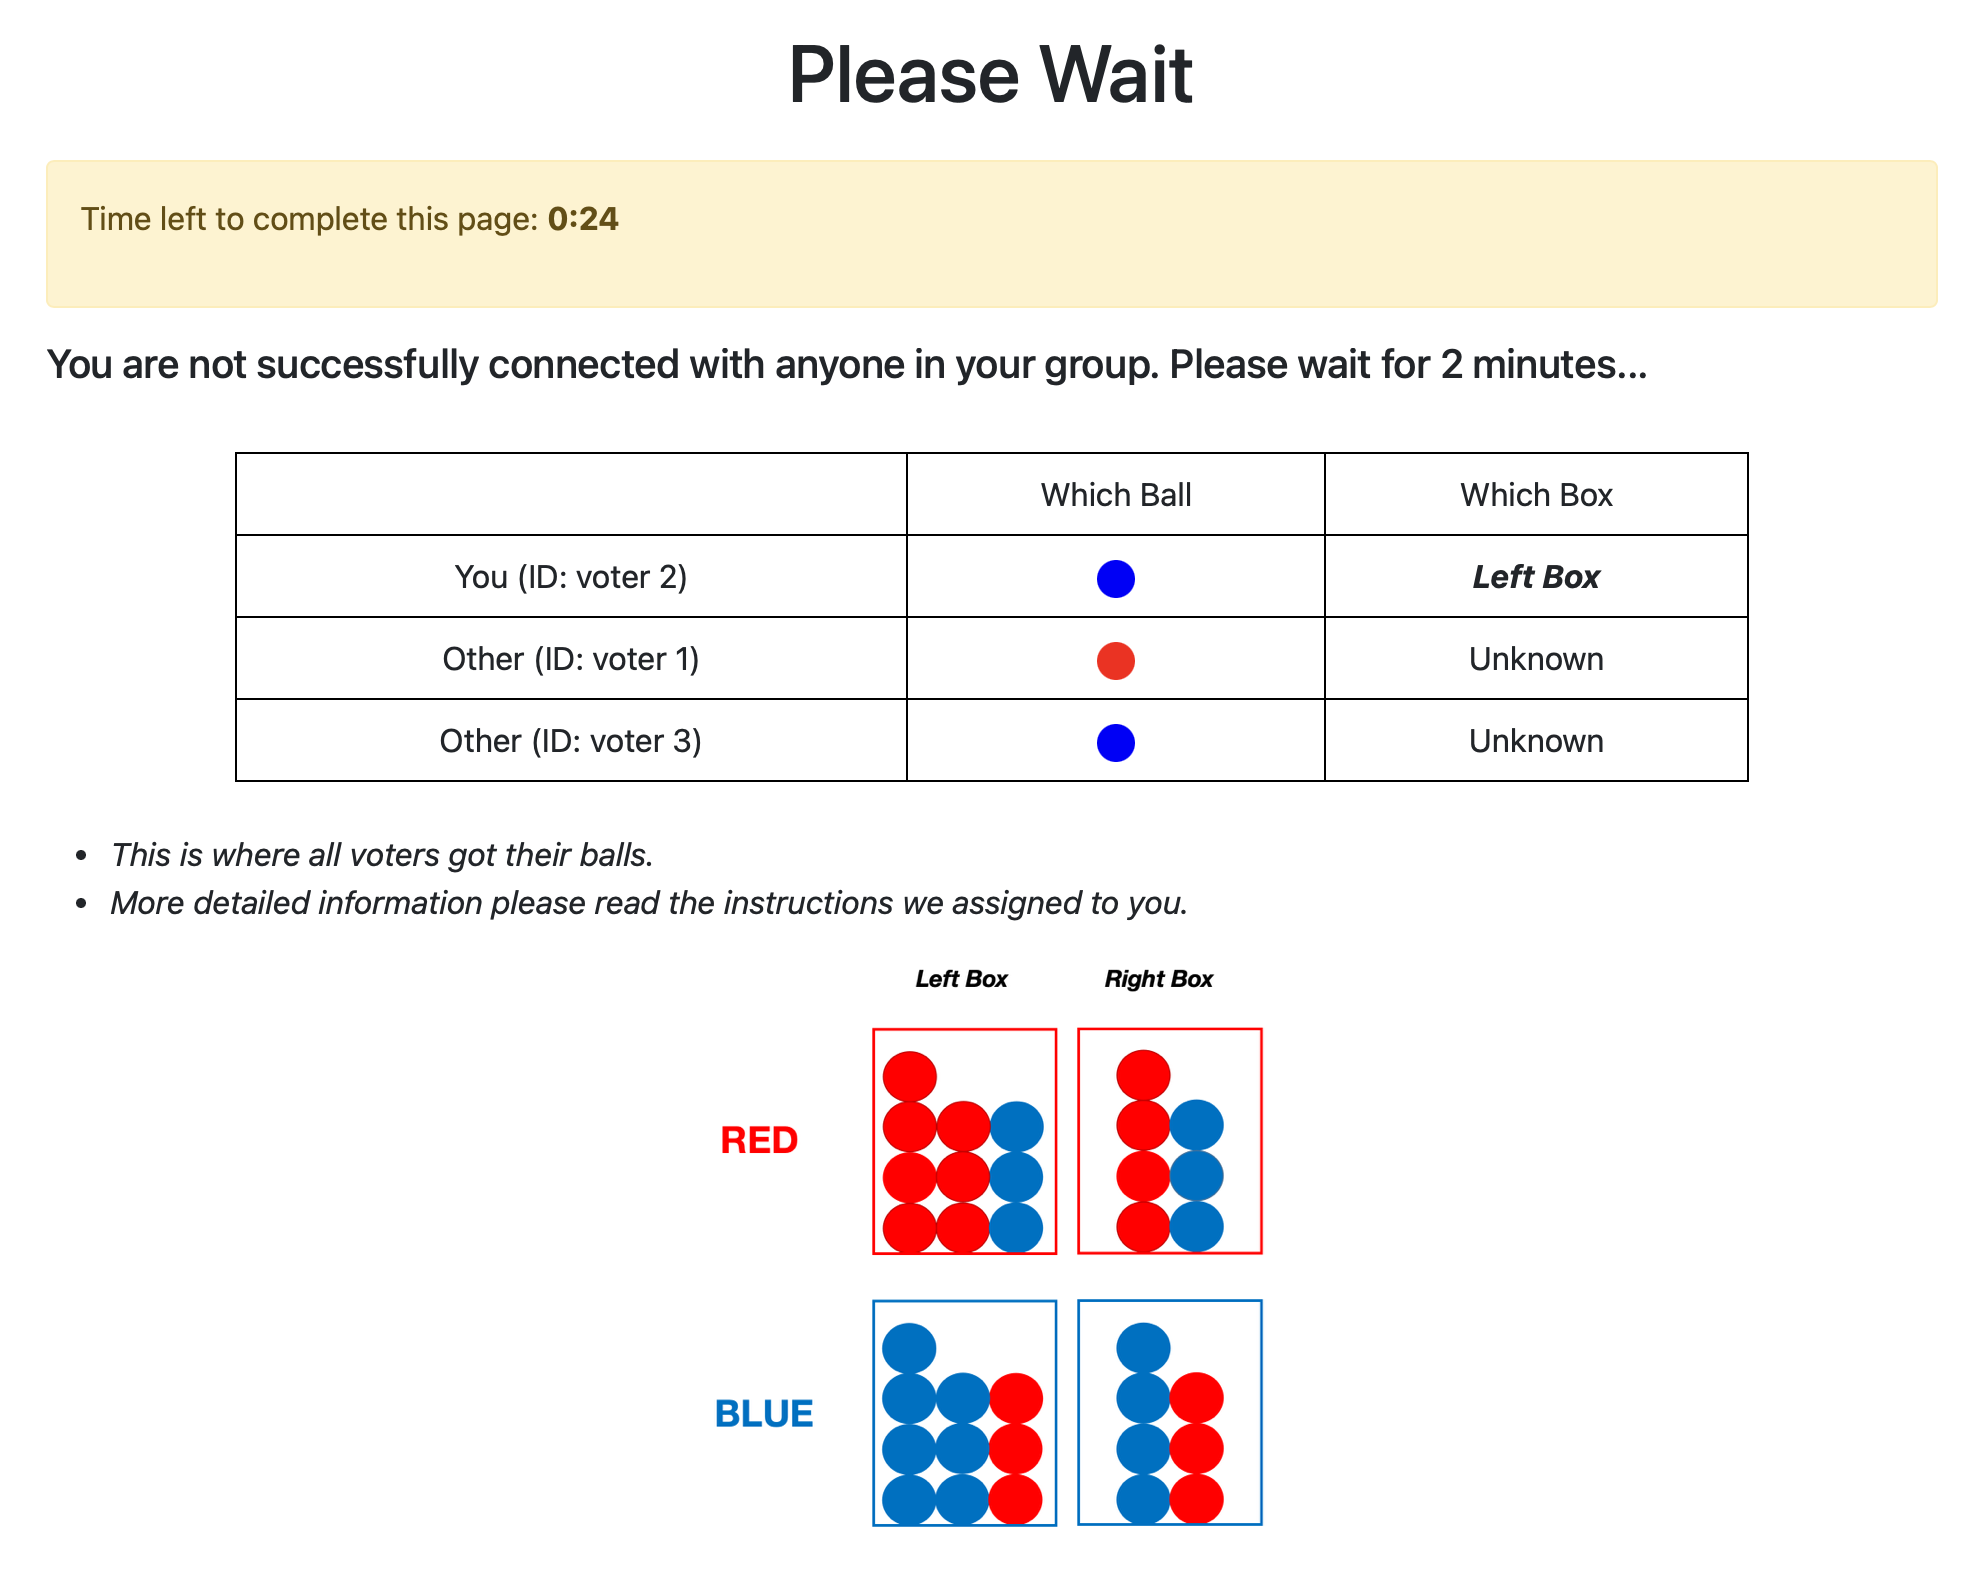
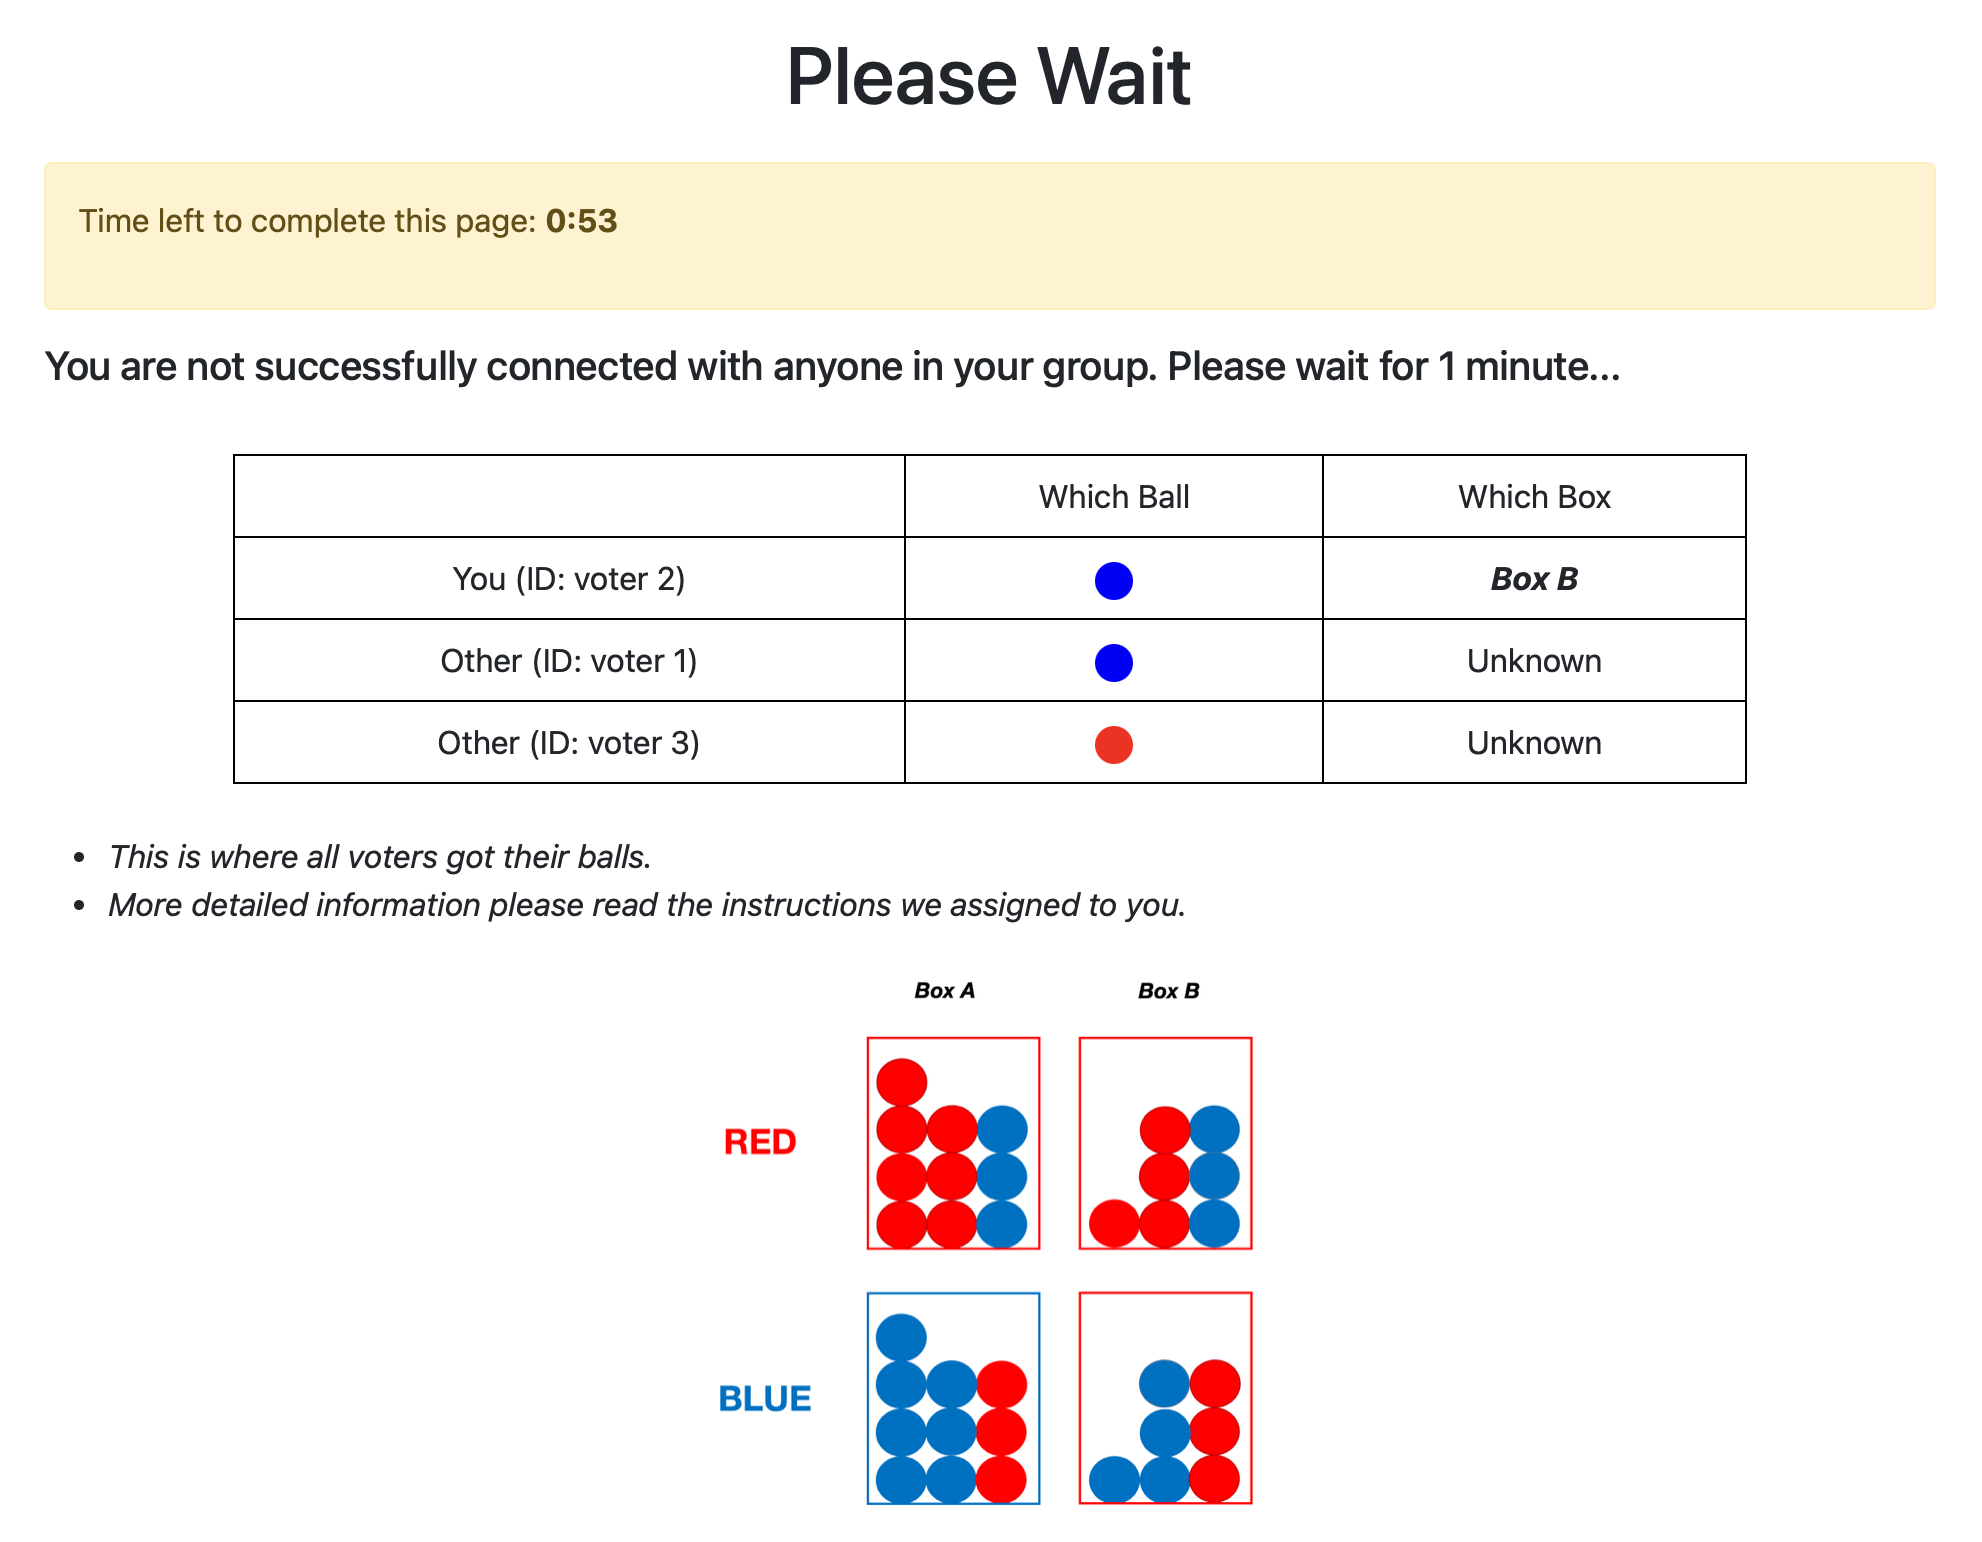
.

diff --git a/voting/Voting_high_diff/Main_Instructions.html b/voting/Voting_high_diff/Main_Instructions.html
@@ -22,7 +22,7 @@
   <li> You will face 10 rounds in this experiment. </li>
   <li> <b>Each round is independent of other rounds</b>. </li>
   <li> <b>Each round is equally likely to be selected for your payment</b>. </li>
-  <li> <b>You might be matched with different group members in each round</b>. </li>
+  <li> <b>You might be matched with different participants as group members in each round</b>. </li>
   <li> Thus, it is important for you to take each round seriously. </li>
 </ul>
 
@@ -39,14 +39,19 @@
 <br>
 <br>
     <li>Every <b>3 participants</b> in this lab are randomly selected into one group in the beginning of each round. </li>
-    <li>In your group, the computer will flip a coin (50-50) to determine the ''unknown state'' - either the <strong style="color: red;">''RED''</strong> or <strong style="color: blue;">''BLUE''</strong>. <b>But you are not told which one is chosen!</b></li>
-    <li>For you, the computer will flip a coin (50-50) again to determine one box - either <strong><em>Box A</em></strong> or <strong><em>Box B</em></strong>. You will <b>randomly</b> get one ball from the chosen box. </li>
-    <li><b>IMPORTANT!</b> The ball (not <strong><em>Box A</em></strong> or <strong><em>Box B</em></strong>!) you and other group members got will be shown to everyone in your group. </li>
-    <li>For example, if you got a blue ball from <strong><em>Box A</em></strong>, and your group members got a red ball and a blue ball, you will be shown the following screenshot:</li>
-<br>
-<br>
+    <li>We will roll a die and determine the ''unknown state'' - either the <strong style="color: red;">''RED''</strong> or <strong style="color: red;">''BLUE''</strong>. <b>No one will be told which one is chosen!</b></li>
+    <li>You are asked to select a card to reveal a box <strong><em>from the chosen state:</em></strong> </li>
 <div style="text-align: center;">
-   <img src="{% static 'global/info.png' %}" alt="Urns" width="70%">
+   <img src="{% static 'global/box.png' %}" alt="Urns" width="70%" style="margin-right: 80px;">
+</div>
+    <li><strong><em>From the chosen state and your selected box</em></strong>, you are asked to select a ball to reveal its color:</li>
+<div style="text-align: center;">
+   <img src="{% static 'global/ball.png' %}" alt="Urns" width="70%" style="margin-right: 80px;">
+</div>
+    <li>The color of the ball (not <strong><em>Box A</em></strong> or <strong><em>Box B</em></strong>!) you and your group members got will be shown to everyone in your group.</li>
+    <li>e.g., if you got a red ball from <strong><em>Box A</em></strong>, and your group members got a red ball and a blue ball, you will be shown the following: </li>
+<div style="text-align: center;">
+   <img src="{% static 'global/info.png' %}" alt="Urns" width="70%" style="margin-right: 80px;">
 </div>
 <br>
 <br>
@@ -54,35 +59,33 @@
 
 <h4>Stage 2: Who you want to connect with</h4>
 
-In stage 2, you can gain more information by connecting with at most one voter in your group. How you can connect with other group members depends on your choice and other group members choices in the following task.
-
+In this stage, you can gain more information by connecting with at most one voter in your group. How you can connect with other group members depends on your choice and other group members choices in the following task.
 <ul>
 <br>
-    <li>You need to rank whom you want to connect with from the most to the least. You will see the following screenshot: </li>
+    <li>You are asked to rank whom you want to connect with from the most to the least. You will see the following interface:  </li>
 <br>
 <br>
 <div style="text-align: center;">
-   <img src="{% static 'global/ranking.png' %}" alt="Urns" width="70%">
+   <img src="{% static 'global/network.png' %}" alt="Urns" width="70%">
 </div>
 <br>
 <br>
-    <li>IF you have no strict preference between two choices, you can always put them in the same box. </li>
     <li>The computer will match you with other group members based on your ranking, i.e. <strong><em>the computer will match you first with the group member you put in the first box, then with the one in the second box, and so on until the last box.</em></strong></li>
     <li>So it is <b>IMPORTANT</b> for you to rank exactly based on who you want to connect with from the most to the least.  </li>
-    <li>If you are not successfully connected to any voters in your group, you just wait in the page for two minutes. You will see the following screenshot:</li>
+    <li>If you are not successfully connected to any voters in your group, you just wait in the page for one minute. You will see the following screenshot:</li>
     <br>
 <br>
 <div style="text-align: center;">
-   <img src="{% static 'global/non-chat.png' %}" alt="Urns" width="70%">
+   <img src="{% static 'global/non-chat.png' %}" alt="Urns" width="50%">
 </div>
 <br>
 <br>
 </ul>
-    <li>If you are successfully connected to another participant, you can (I) see he/she got a ball from which box: either <strong><em>Box A</em></strong> or <strong><em>Box B</em></strong>; (II) freely to chat with him/her for 2 minutes. You will see the following screenshot:</li>
+    <li>If you are successfully connected to another participant, you can (I) see he/she got a ball from which box: either <strong><em>Box A</em></strong> or <strong><em>Box B</em></strong>; (II) freely to chat with him/her for 1 minute. You will see the following screenshot:</li>
     <br>
 <br>
 <div style="text-align: center;">
-   <img src="{% static 'global/chat.png' %}" alt="Urns" width="70%">
+   <img src="{% static 'global/chat.png' %}" alt="Urns" width="80%">
 </div>
 <br>
 <br>

diff --git a/voting/Voting_medium_diff/Main_Instructions.html b/voting/Voting_medium_diff/Main_Instructions.html
@@ -22,7 +22,7 @@
   <li> You will face 10 rounds in this experiment. </li>
   <li> <b>Each round is independent of other rounds</b>. </li>
   <li> <b>Each round is equally likely to be selected for your payment</b>. </li>
-  <li> <b>You might be matched with different group members in each round</b>. </li>
+  <li> <b>You might be matched with different participants as group members in each round</b>. </li>
   <li> Thus, it is important for you to take each round seriously. </li>
 </ul>
 
@@ -39,14 +39,19 @@
 <br>
 <br>
     <li>Every <b>3 participants</b> in this lab are randomly selected into one group in the beginning of each round. </li>
-    <li>In your group, the computer will flip a coin (50-50) to determine the ''unknown state'' - either the <strong style="color: red;">''RED''</strong> or <strong style="color: blue;">''BLUE''</strong>. <b>But you are not told which one is chosen!</b></li>
-    <li>For you, the computer will flip a coin (50-50) again to determine one box - either <strong><em>Box A</em></strong> or <strong><em>Box B</em></strong>. You will <b>randomly</b> get one ball from the chosen box. </li>
-    <li><b>IMPORTANT!</b> The ball (not <strong><em>Box A</em></strong> or <strong><em>Box B</em></strong>!) you and other group members got will be shown to everyone in your group. </li>
-    <li>For example, if you got a blue ball from <strong><em>Box A</em></strong>, and your group members got a red ball and a blue ball, you will be shown the following screenshot:</li>
-<br>
-<br>
+    <li>We will roll a die and determine the ''unknown state'' - either the <strong style="color: red;">''RED''</strong> or <strong style="color: red;">''BLUE''</strong>. <b>No one will be told which one is chosen!</b></li>
+    <li>You are asked to select a card to reveal a box <strong><em>from the chosen state:</em></strong> </li>
 <div style="text-align: center;">
-   <img src="{% static 'global/info.png' %}" alt="Urns" width="70%">
+   <img src="{% static 'global/box.png' %}" alt="Urns" width="70%" style="margin-right: 80px;">
+</div>
+    <li><strong><em>From the chosen state and your selected box</em></strong>, you are asked to select a ball to reveal its color:</li>
+<div style="text-align: center;">
+   <img src="{% static 'global/ball.png' %}" alt="Urns" width="70%" style="margin-right: 80px;">
+</div>
+    <li>The color of the ball (not <strong><em>Box A</em></strong> or <strong><em>Box B</em></strong>!) you and your group members got will be shown to everyone in your group.</li>
+    <li>e.g., if you got a red ball from <strong><em>Box A</em></strong>, and your group members got a red ball and a blue ball, you will be shown the following: </li>
+<div style="text-align: center;">
+   <img src="{% static 'global/info.png' %}" alt="Urns" width="70%" style="margin-right: 80px;">
 </div>
 <br>
 <br>
@@ -54,35 +59,33 @@
 
 <h4>Stage 2: Who you want to connect with</h4>
 
-In stage 2, you can gain more information by connecting with at most one voter in your group. How you can connect with other group members depends on your choice and other group members choices in the following task.
-
+In this stage, you can gain more information by connecting with at most one voter in your group. How you can connect with other group members depends on your choice and other group members choices in the following task.
 <ul>
 <br>
-    <li>You need to rank whom you want to connect with from the most to the least. You will see the following screenshot: </li>
+    <li>You are asked to rank whom you want to connect with from the most to the least. You will see the following interface:  </li>
 <br>
 <br>
 <div style="text-align: center;">
-   <img src="{% static 'global/ranking.png' %}" alt="Urns" width="70%">
+   <img src="{% static 'global/network.png' %}" alt="Urns" width="70%">
 </div>
 <br>
 <br>
-    <li>IF you have no strict preference between two choices, you can always put them in the same box. </li>
     <li>The computer will match you with other group members based on your ranking, i.e. <strong><em>the computer will match you first with the group member you put in the first box, then with the one in the second box, and so on until the last box.</em></strong></li>
     <li>So it is <b>IMPORTANT</b> for you to rank exactly based on who you want to connect with from the most to the least.  </li>
-    <li>If you are not successfully connected to any voters in your group, you just wait in the page for two minutes. You will see the following screenshot:</li>
+    <li>If you are not successfully connected to any voters in your group, you just wait in the page for one minute. You will see the following screenshot:</li>
     <br>
 <br>
 <div style="text-align: center;">
-   <img src="{% static 'global/non-chat.png' %}" alt="Urns" width="70%">
+   <img src="{% static 'global/non-chat.png' %}" alt="Urns" width="50%">
 </div>
 <br>
 <br>
 </ul>
-    <li>If you are successfully connected to another participant, you can (I) see he/she got a ball from which box: either <strong><em>Box A</em></strong> or <strong><em>Box B</em></strong>; (II) freely to chat with him/her for 2 minutes. You will see the following screenshot:</li>
+    <li>If you are successfully connected to another participant, you can (I) see he/she got a ball from which box: either <strong><em>Box A</em></strong> or <strong><em>Box B</em></strong>; (II) freely to chat with him/her for 1 minute. You will see the following screenshot:</li>
     <br>
 <br>
 <div style="text-align: center;">
-   <img src="{% static 'global/chat.png' %}" alt="Urns" width="70%">
+   <img src="{% static 'global/chat.png' %}" alt="Urns" width="80%">
 </div>
 <br>
 <br>

diff --git a/voting/Voting_high_diff/General_Instructions.html b/voting/Voting_high_diff/General_Instructions.html
@@ -33,13 +33,13 @@
 <ul>
     <li> The experiment should take about 60 minutes.</li>
     <li> You have each earned a £5 payment for showing up on time. </li>
-    <li> You can earn more. <b>How much you earn in this experiment depends on your decisions, the decisions of other participants and random chance</b>. </li>
+    <li> You can earn more. <b>How much you earn in this experiment depends on your decisions, chance, and on others’ decisions.</b> </li>
     <li> This experiment consists of two parts: Voting and Survey. The Voting part will be stopped by a set of instructions as well as a short comprehension check.
 </ul>
 
 <h2> How final earnings are computed </h2>
 <ul>
-   <li> You will receive £5 for showing up on time (as the show-up fee). </li>
+   <li> £5 for showing up on time. </li>
    <li> At the end of the experiment one round from Voting will be randomly selected for your additional payment.
    <li> All rounds are equally likely to be selected.  </li>
    <li> You will be paid privately and in cash at the end of the experiment. </li>

diff --git a/voting/Voting_medium_diff/General_Instructions.html b/voting/Voting_medium_diff/General_Instructions.html
@@ -33,13 +33,13 @@
 <ul>
     <li> The experiment should take about 60 minutes.</li>
     <li> You have each earned a £5 payment for showing up on time. </li>
-    <li> You can earn more. <b>How much you earn in this experiment depends on your decisions, the decisions of other participants and random chance</b>. </li>
+    <li> You can earn more. <b>How much you earn in this experiment depends on your decisions, chance, and on others’ decisions.</b> </li>
     <li> This experiment consists of two parts: Voting and Survey. The Voting part will be stopped by a set of instructions as well as a short comprehension check.
 </ul>
 
 <h2> How final earnings are computed </h2>
 <ul>
-   <li> You will receive £5 for showing up on time (as the show-up fee). </li>
+   <li> £5 for showing up on time. </li>
    <li> At the end of the experiment one round from Voting will be randomly selected for your additional payment.
    <li> All rounds are equally likely to be selected.  </li>
    <li> You will be paid privately and in cash at the end of the experiment. </li>
